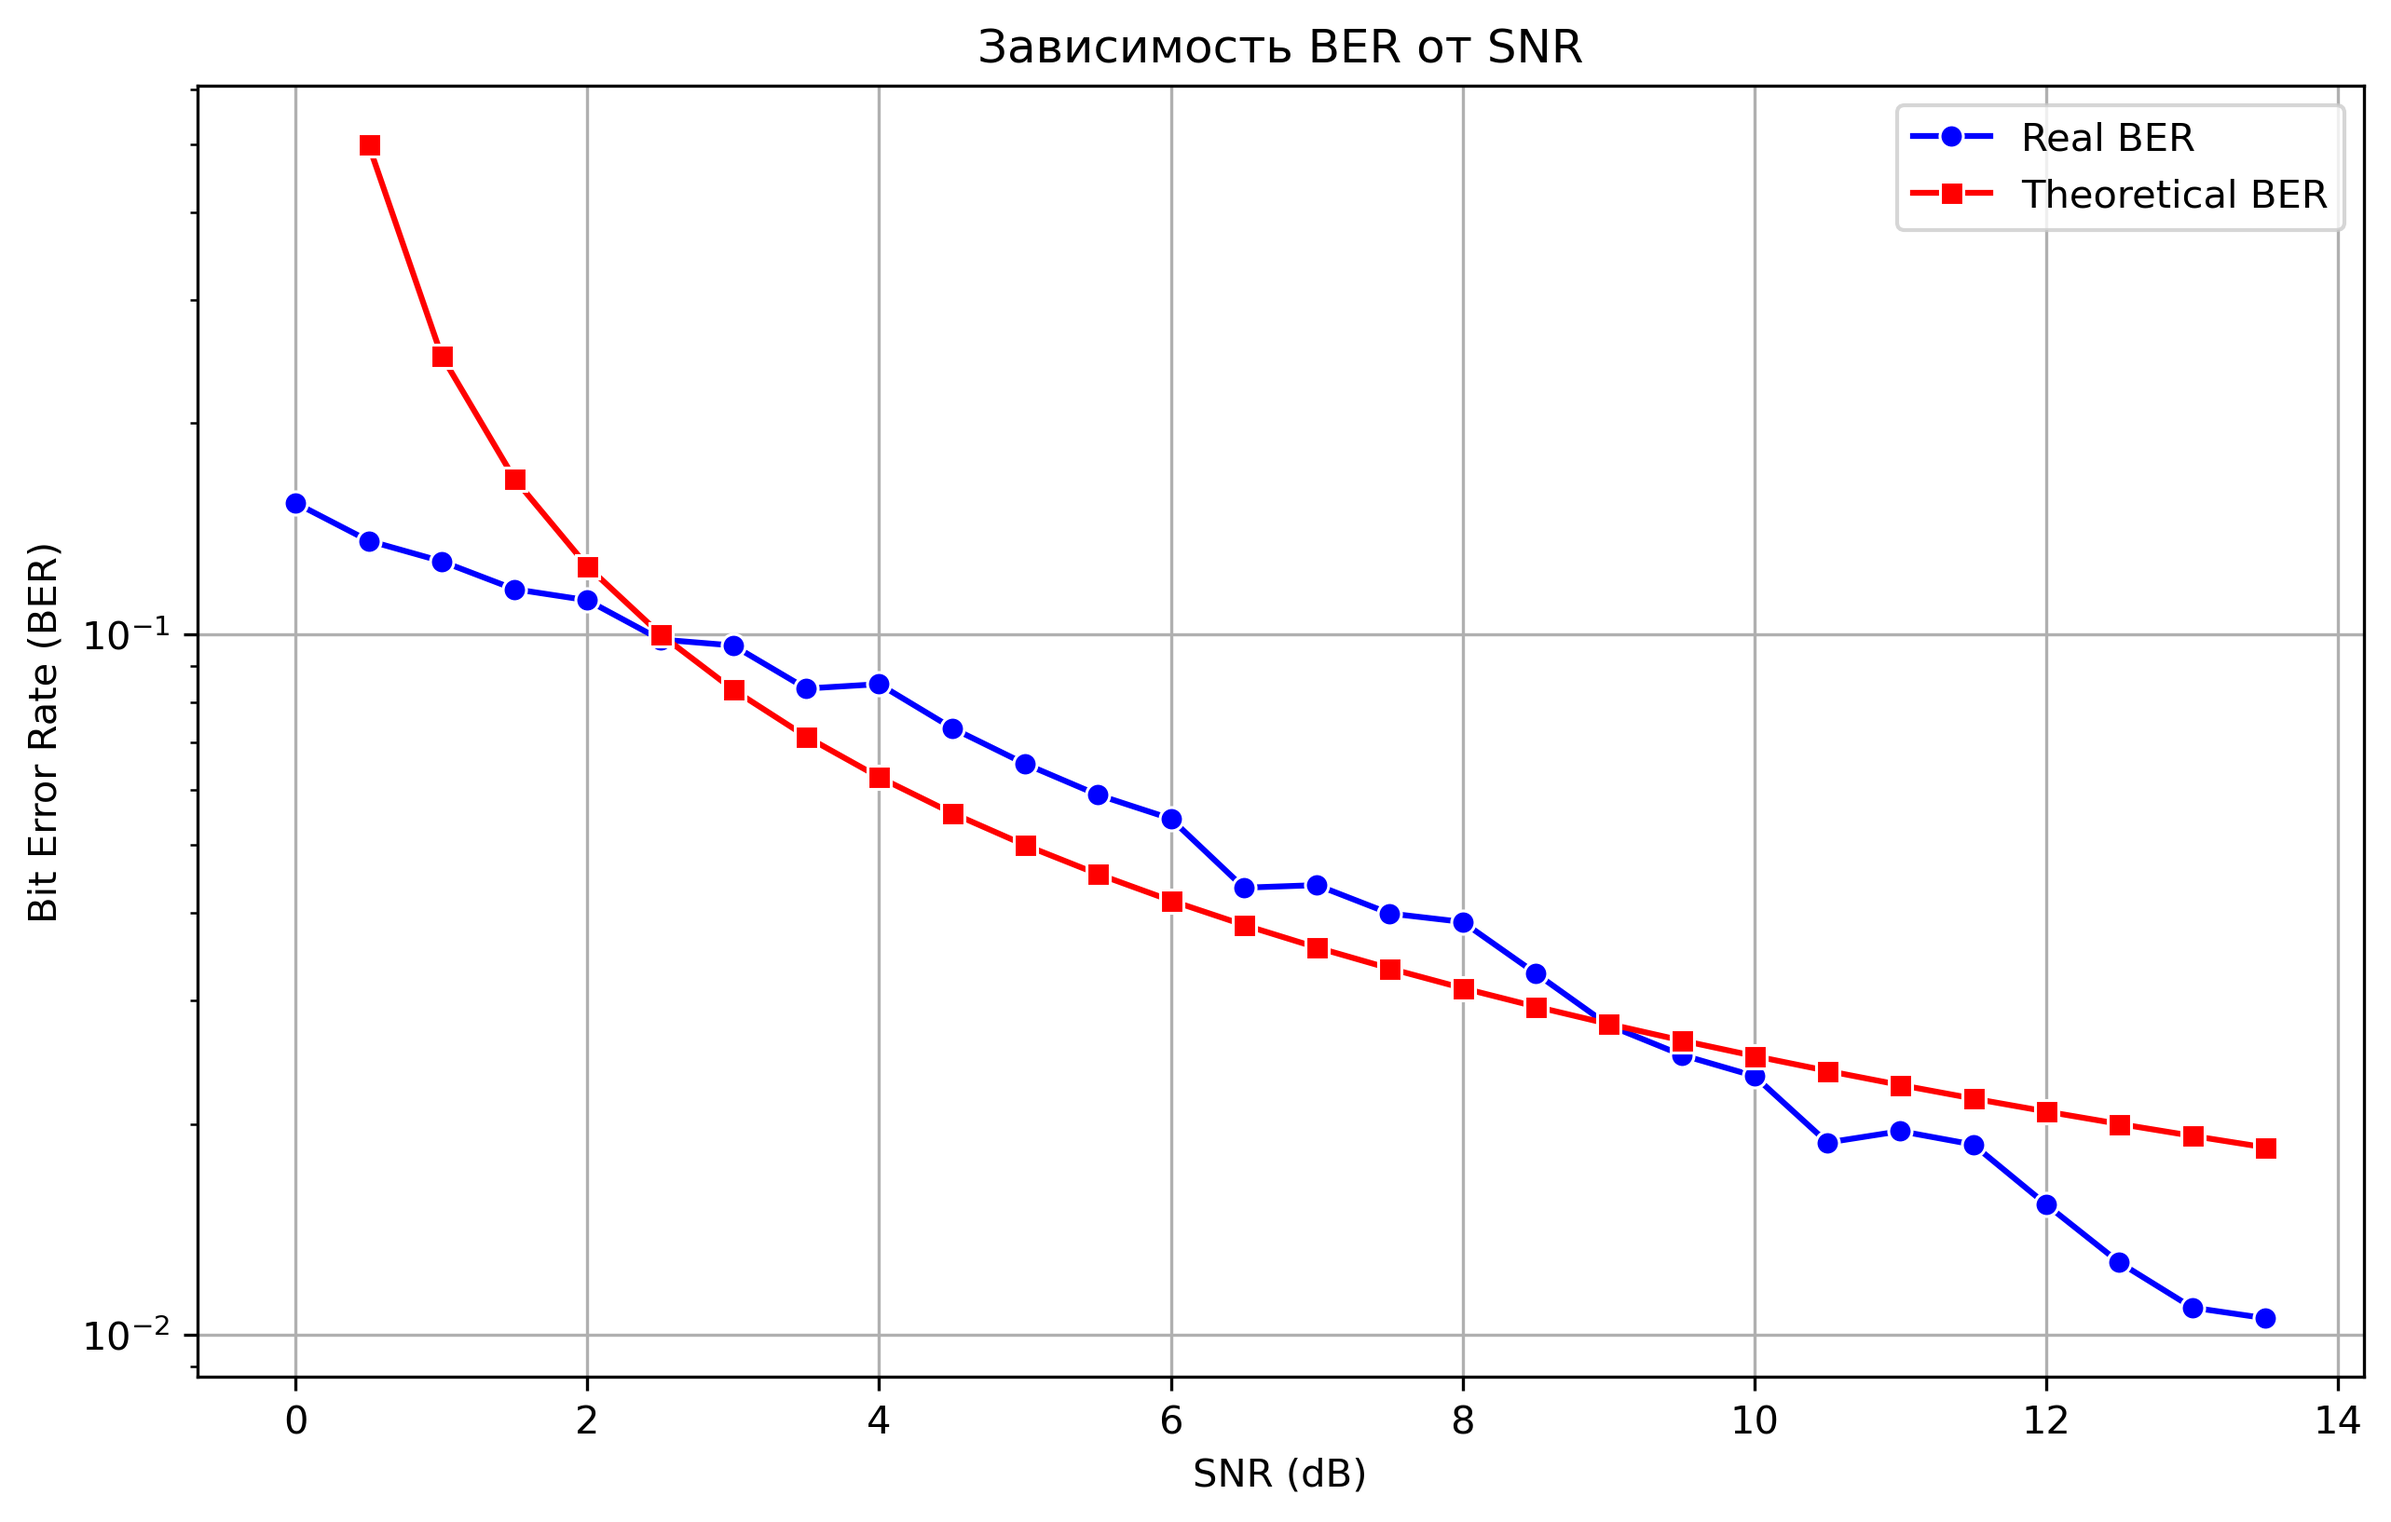
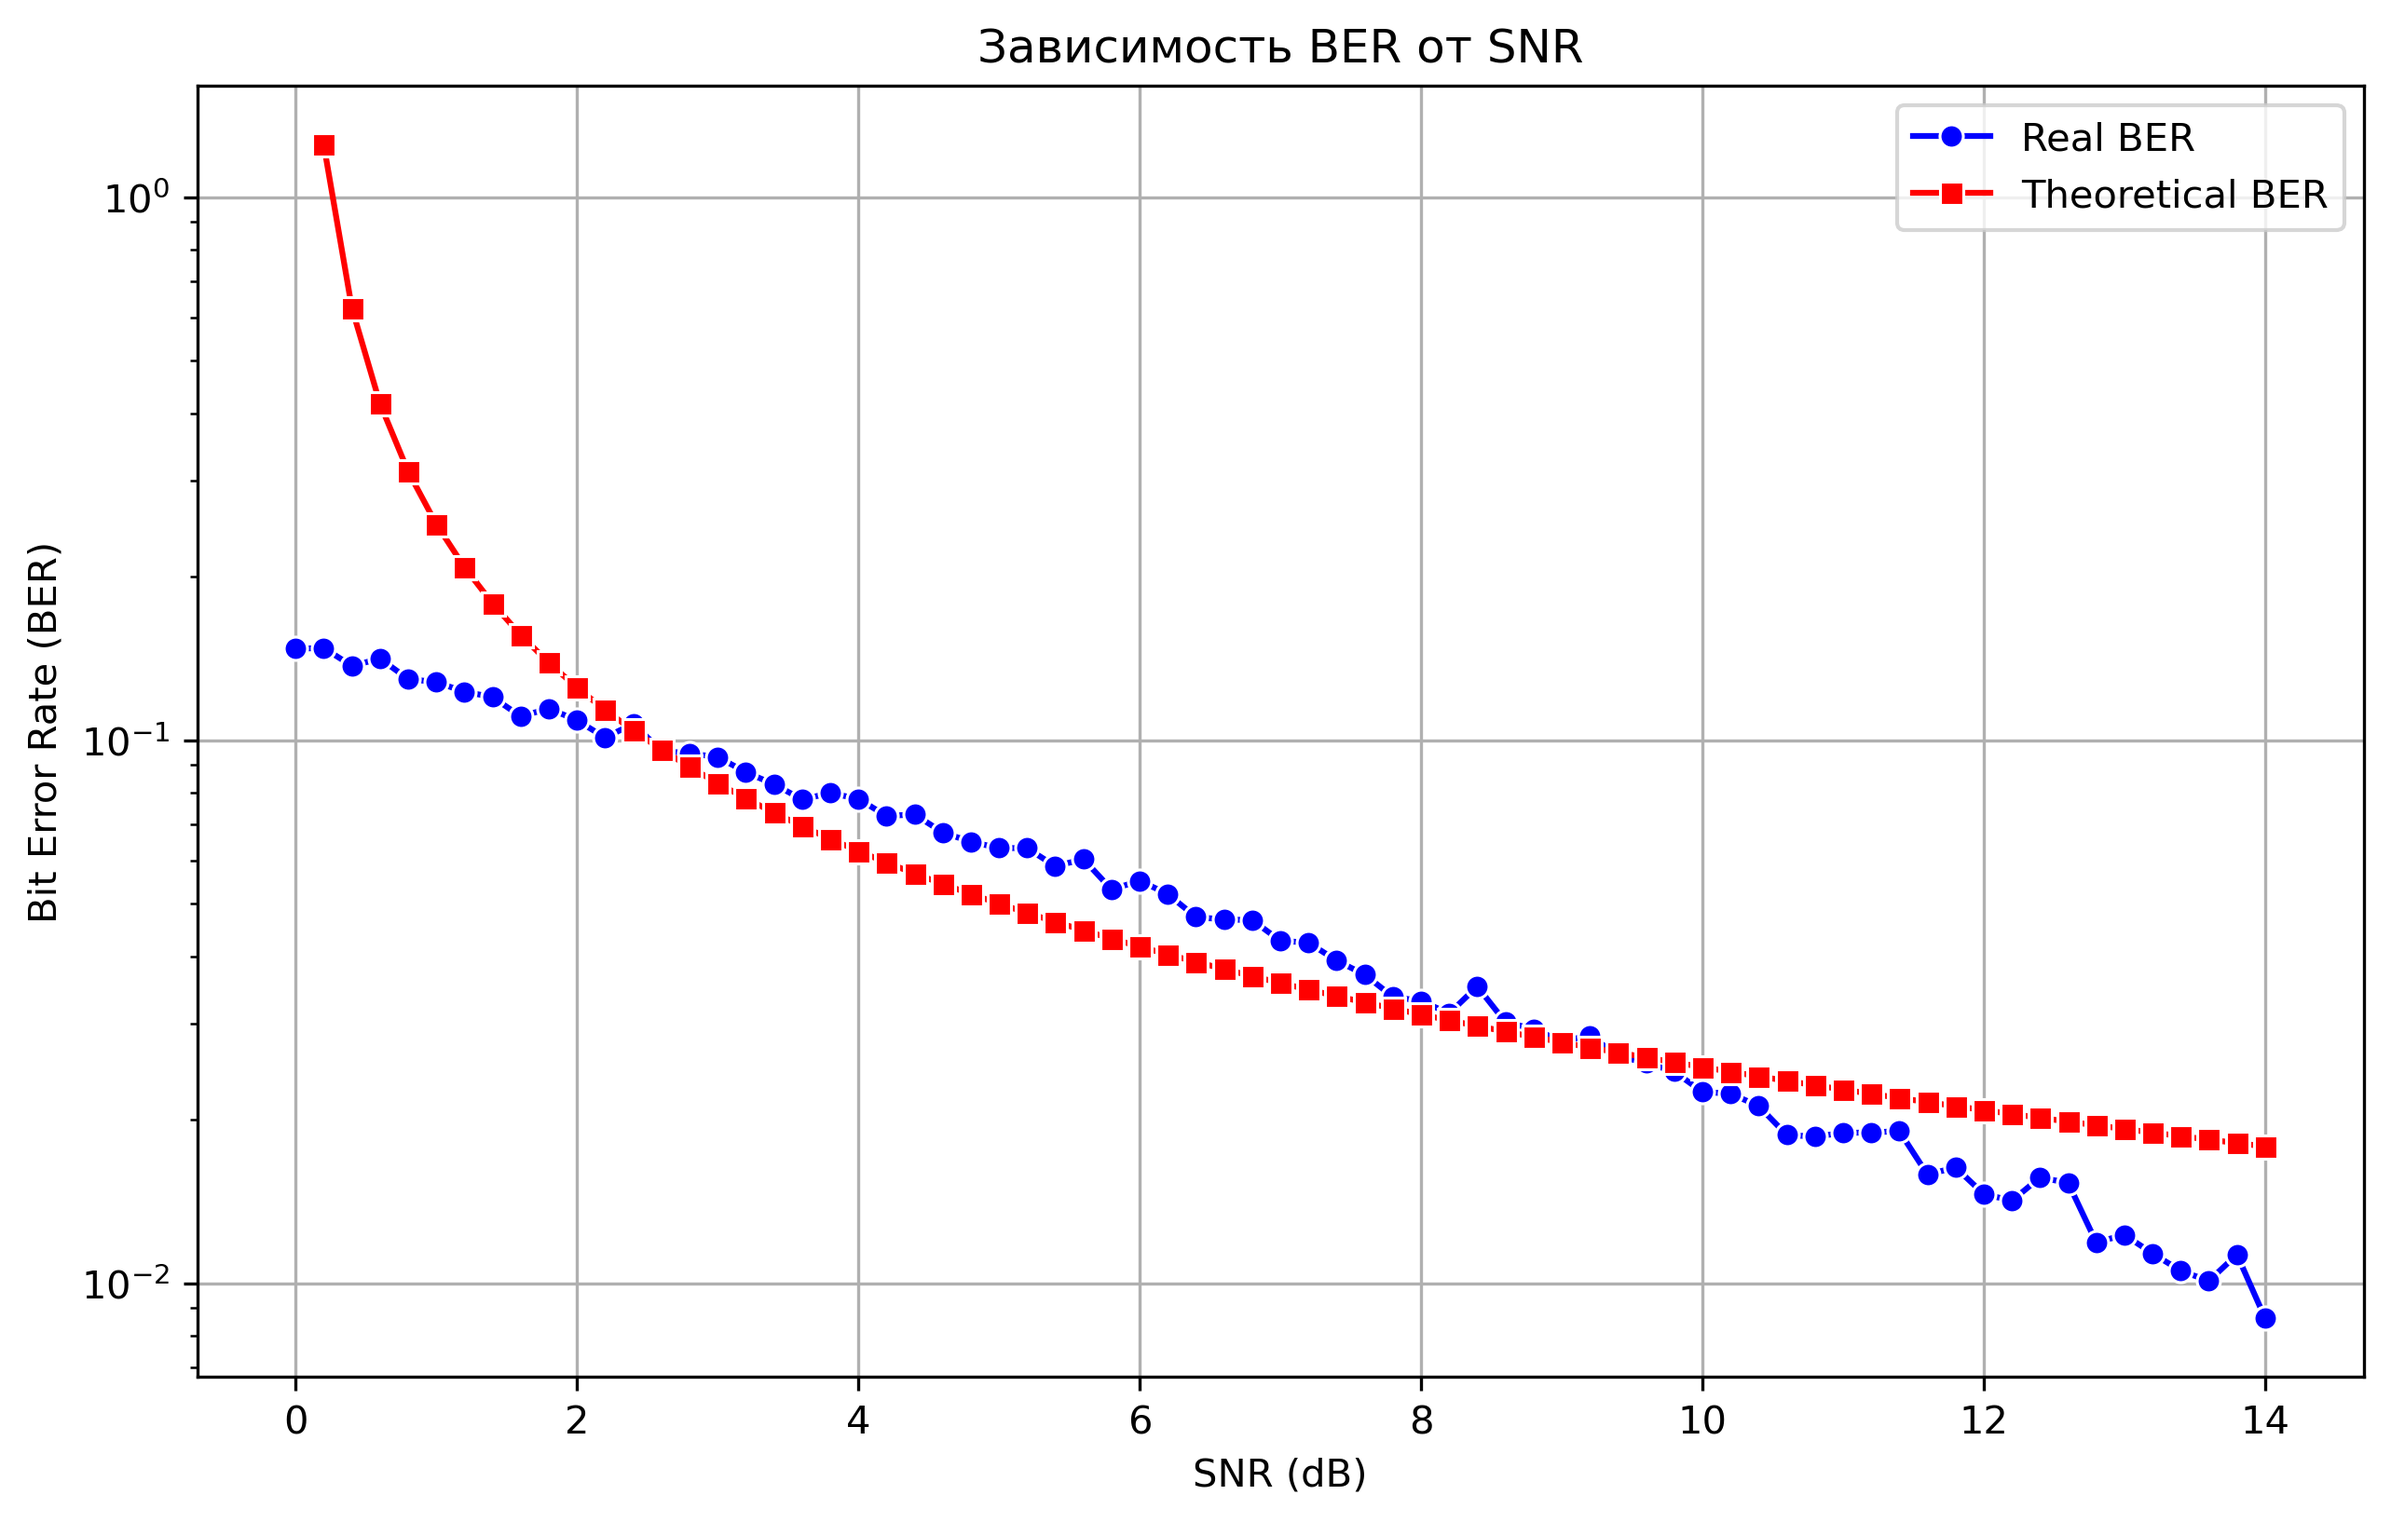
small update

diff --git a/main.cpp b/main.cpp
@@ -2,15 +2,13 @@
 
 int main(){
     std::vector<double> snr_db_list;
-    snr_db_list.reserve(100);
+    snr_db_list.reserve(20);
 
-    const int MAX_SNR = 14;
-    const int SNR_STEP = 0.2;
-    const int NUM_BITS = 32;
-    const int N_EXP = 1000;
+    const int NUM_BITS = 128;
+    const int N_EXP = 2000;
     double real_ber, theory_ber;
 
-    for(double snr = 0; snr < MAX_SNR; snr += SNR_STEP)
+    for(double snr = 0; snr < 14; snr += 0.2)
         snr_db_list.push_back(snr);
 
     std::vector<std::vector<std::complex<double>>> chanel_matrix;
@@ -20,11 +18,11 @@ int main(){
     std::vector<std::complex<double>> mimo_zf;
     std::vector<int> recieved;
 
-    chanel_matrix = generate_chanel_matrix();
 
     for(double snr_db : snr_db_list){
         real_ber = 0;
         for(int i = 0; i < N_EXP; i++){
+            chanel_matrix = generate_chanel_matrix();
             transmitted = generate_bit_vector(NUM_BITS);
             modulated_symbols = bpsk_modulate(transmitted);
             mimo_symbols = mimo_chanel(modulated_symbols, chanel_matrix, snr_db);

diff --git a/create_graph.py b/create_graph.py
@@ -25,7 +25,6 @@ def main():
         for line in file:
             words = line.strip().replace(":", "").split(" ")
             numbers = [float(word) for word in words if is_number(word)]
-            print(numbers)
 
             if len(numbers) >= 3:
                 snr_db.append(numbers[0])
